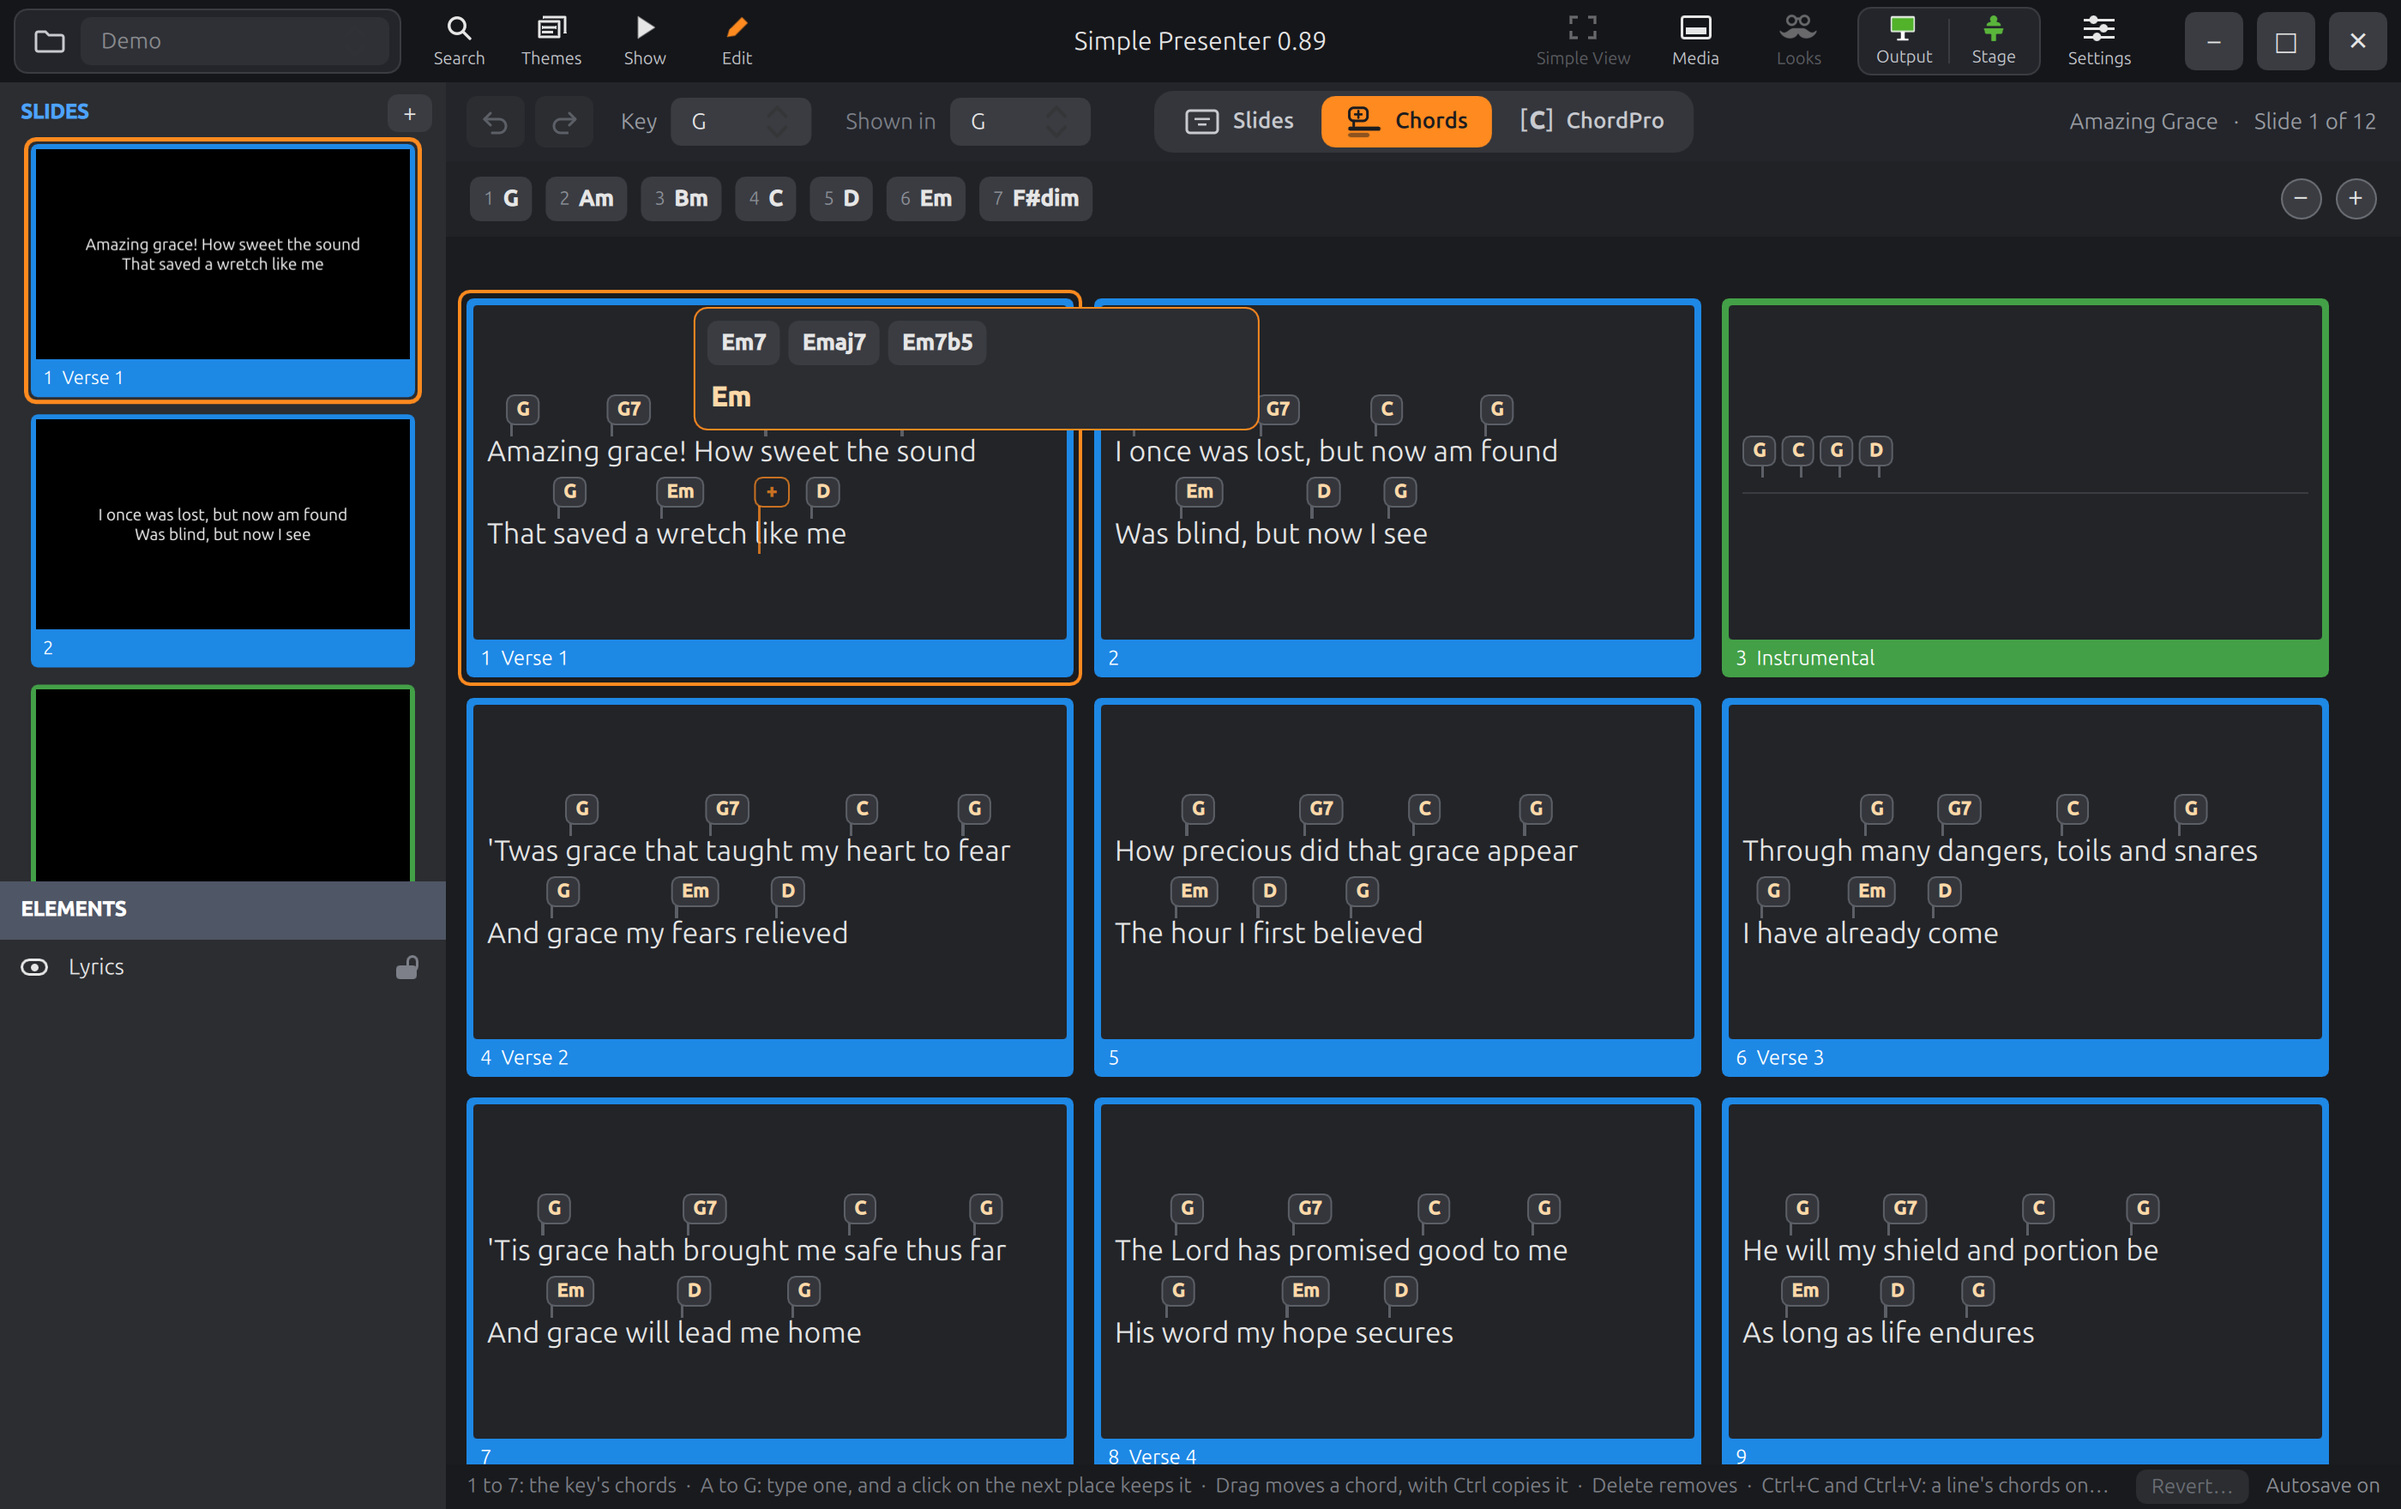
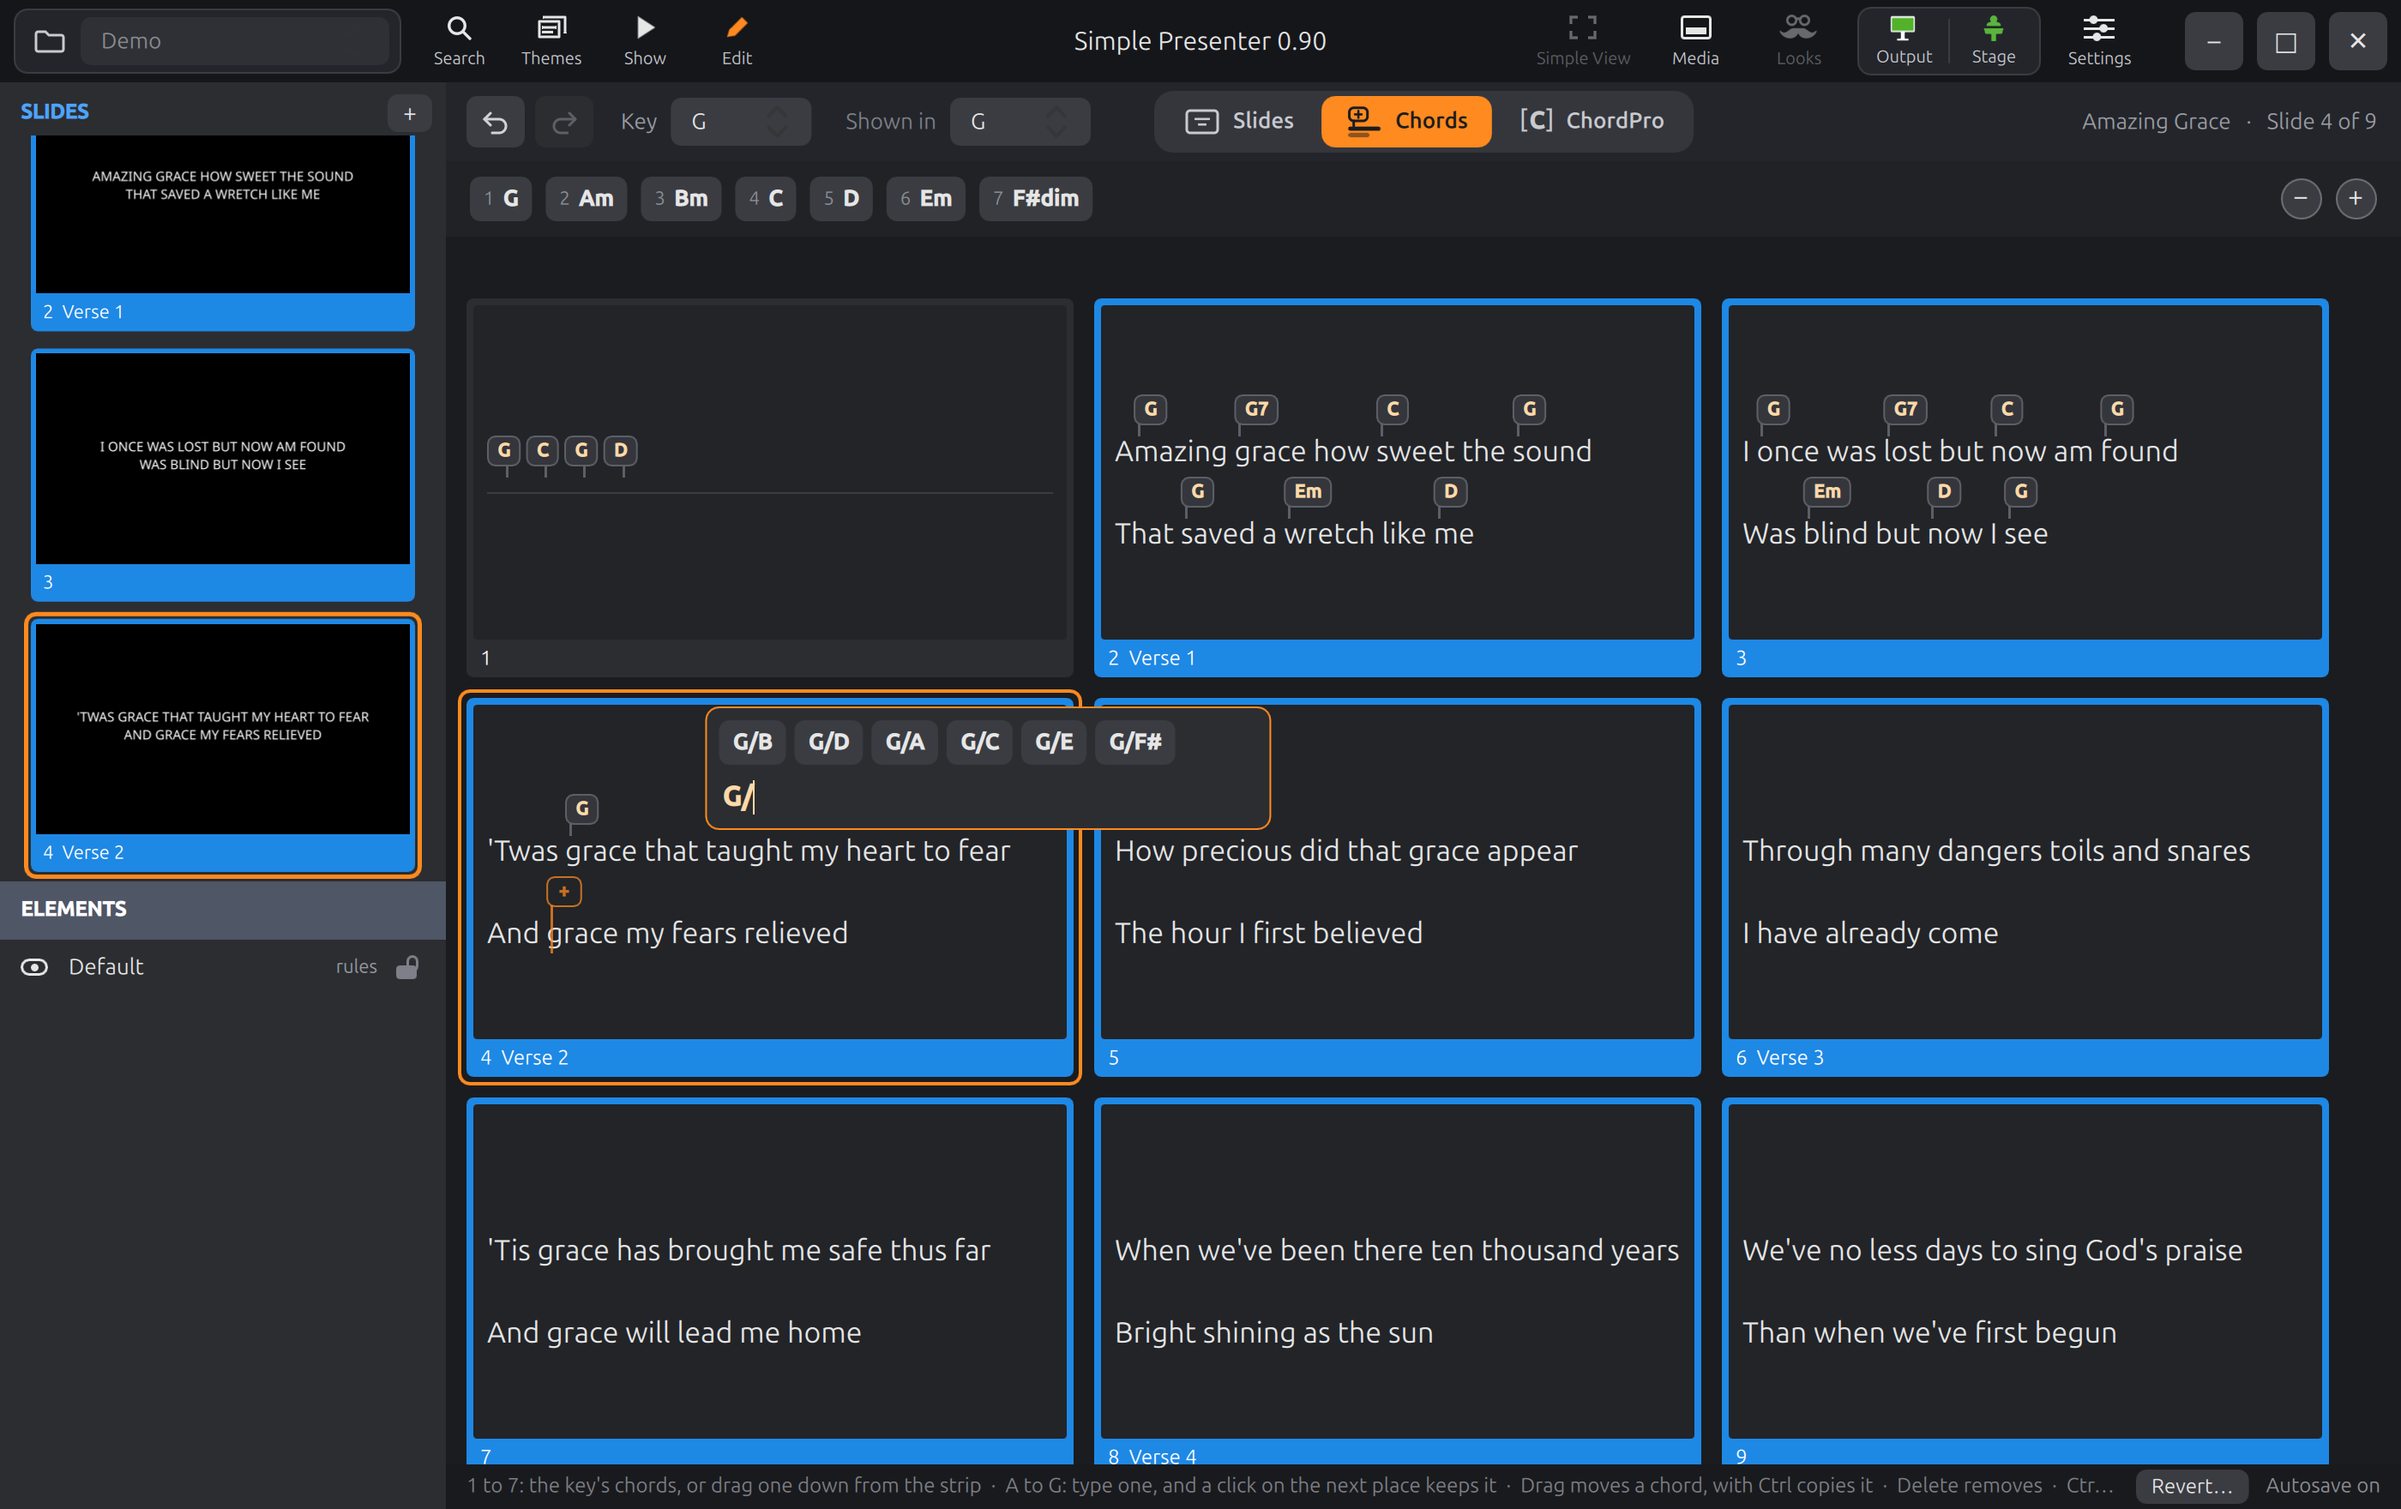
The README on a chord from the strip, and the chord editor's picture
What's new has the chord dragged out of the strip first. Chords has
it among what makes the editor quick, and in the list of what each
thing does.

The picture of the chord editor is taken again, on the Amazing Grace
of the Demo library, with the hymn's usual chords in G on its first
verse and an intro's on the slide before it. The bubble a chord is
typed in is open over a word of the second verse, with the bass
notes a slash might go on to. (Its title says 0.90, which is the
next change.)

The scripted tests are counted again, here and in AGENTS.md.

diff --git a/README.md b/README.md
@@ -101,7 +101,7 @@ and the chord is one key away (1 to 7 are the chords of the song's key) or a let
 two typed, with the likely ones offered. Click the next place and carry on. More under
 [Chords](#chords).
 
-![The chord editor: the song as one sheet, its slides a grid of cards, each in a frame of its group's colour with the slide's number and the group's name on its foot, and the chords in small bubbles over the letters they belong to; over the grid the seven chords of the song's key on the keys 1 to 7, and in the toolbar the song's two keys and the switch between Slides, Chords and ChordPro; over one line a bubble in which a chord is being typed, with what it might be going to be offered above it; and on the line under it a bubble in outline where the pointer is, which is where a click would start the next chord](docs/chord-editor.png)
+![The chord editor, with the hymn Amazing Grace as one sheet: its slides a grid of cards, each in a frame of its group's colour with the slide's number and the group's name on its foot, and the chords in small bubbles over the letters they belong to; over the grid the seven chords of the song's key, G, numbered 1 to 7, and in the toolbar the song's two keys and the switch between Slides, Chords and ChordPro; the first verse has its chords, and the slide before it, which has no words, the chords of an intro; over a word of the second verse a bubble in which a chord is being typed, G and a slash, with the bass notes it might be going on to offered above it; and on the line under it a bubble in outline where the pointer is, which is where a click would start the next chord](docs/chord-editor.png)
 
 The same song can be worked on as ChordPro text, and a song can be brought in from a
 ChordPro file, chords and all.
@@ -187,6 +187,12 @@ something non-trivial that way. It has three goals.
 
 The big things lately, the newest first.
 
+- **A chord dragged out of the strip.** In the [chord editor](#chords), each of the
+  key's seven chords along the top of the sheet can be dragged down onto a word, on
+  any slide, and let go there. A lit bubble shows where it would land; where there is
+  none, letting go puts nothing on. The keys 1 to 7 are still the quick way: this is
+  for the hand that reaches for the chord anyway. It came from the chord editor for
+  the Mac and Windows, which began as a copy of this one.
 - **Slide notes, and more for a text box to show.** A slide's notes are in the
   [editor](#editing), in a pane under the slide that a button at the bottom right puts
   up and away, and whose top edge is dragged to size it. They are formatted text, kept
@@ -1322,6 +1328,15 @@ What makes it quick:
 - **Most chords are one key.** The song's key is in the toolbar, and its seven chords
   are along the top of the sheet, numbered. Point at a letter and press **4**, and the
   key's fourth chord is there: in G, that is C. Most of most songs is those seven.
+- **Or one of the seven is dragged onto a word.** Each of them is a button, which puts
+  its chord on the spot when clicked; and it can be picked up and carried down to a
+  word, on any slide, which is slower than a key and is what a hand does unasked. Its
+  picture goes with the pointer, and over a word a lit bubble shows the chord where it
+  would land, in place of a chord that is there. That bubble is the whole of the
+  promise: let go between two slides, on a frame's foot or back on the strip, or press
+  Esc, and nothing is put on. Held near the bottom of the sheet, or its top, it scrolls
+  the sheet to slides that are out of sight. One can be picked up while another chord
+  is being typed, which is kept.
 - **Typing is helped along.** A letter from A to G opens a bubble to type the chord in.
   It takes only what could be a chord, and offers what it might be going to be: the
   chords the song already has, then the key's own, then the usual kinds on that note,
@@ -1380,6 +1395,7 @@ All of it, key by key:
 | Do this | And |
 | --- | --- |
 | 1 to 7 | The key's own chord on that note of its scale goes on the spot: in C, 1 is C, 4 is F, 6 is Am. The strip along the top shows them, and they can be clicked there |
+| Drag one of the strip's seven | Puts it on the word it is let go on, on any slide, where the lit bubble shows; with Shift held, on the start of the word. Let go anywhere else, or with Esc pressed, nothing happens |
 | A to G | Starts a chord by name. Only what could be a chord can be typed, and over it are the chords it might be going to be: the song's own first, then the key's, then the usual kinds |
 | Down, Up | Pick one of those; Right puts it in the box to go on from (for a bass note, say) |
 | Enter | Keeps the chord. Tab keeps it and moves the spot on to the next word. Esc throws it away |
@@ -2348,7 +2364,7 @@ ctest --test-dir build
 ```
 
 **Scripted tests** work the whole app as someone would, with the mouse and the keyboard,
-and look at what its windows then hold and show: nearly forty scripts and about nineteen
+and look at what its windows then hold and show: forty scripts and over nineteen
 hundred checks. They run on a desktop of their own that shows nowhere, on copies of
 workspaces, with settings of their own, so nothing of a run touches the real desktop,
 settings or workspaces. The app is built for them with a door the scripts come in by,

diff --git a/AGENTS.md b/AGENTS.md
@@ -75,7 +75,7 @@ benchmark/run.py                       # times a fixed run against a baseline
 pictures of a fixed run; run it before and after a change to anything that draws and
 compare them. Anything its log says with `qrc:` in it is a QML error: there must be none.
 
-**What you cannot run.** The scripted tests (`tests/ui/run.py`, about thirty scripts
+**What you cannot run.** The scripted tests (`tests/ui/run.py`, about forty scripts
 that work the whole app) need workspaces that are not in this repository, because they
 are not the repository's to publish. So on anyone's computer but the maintainer's, the
 unit tests, the self-test and the benchmark are all there is. Say so when you report
